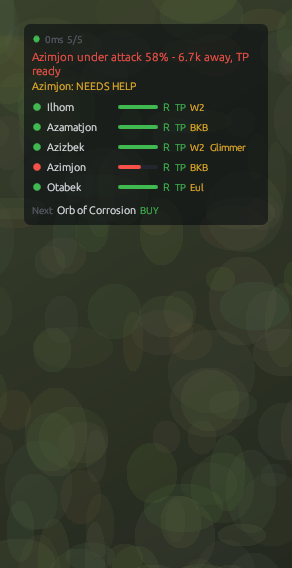
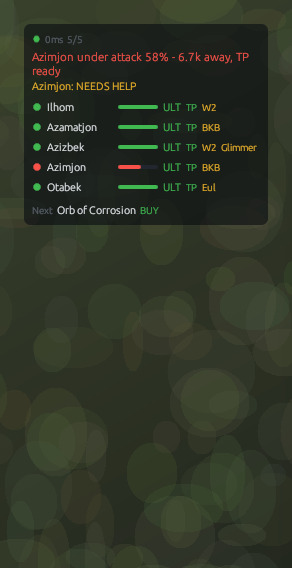
Label the ultimate ULT instead of R; space TP cooldowns
R was not obvious to everyone. The row now reads ULT (green ready) or
ULT 30 (seconds left); TP cooldowns read TP 12. Rows still fit the
244 px panel, including the widest one.

Changed region(s): [[0.5548, 0.1796, 0.8938, 0.3592]]

diff --git a/crates/agent/src/overlay.rs b/crates/agent/src/overlay.rs
@@ -471,14 +471,14 @@ fn row(ui: &mut egui::Ui, m: &Mate, now: Instant, is_me: bool) {
 
         if let Some(u) = st.ultimate().filter(|u| u.level > 0) {
             if u.cooldown == 0 {
-                ui.label(RichText::new("R").color(GREEN).strong().size(10.5));
+                ui.label(RichText::new("ULT").color(GREEN).strong().size(10.5));
             } else {
-                small(ui, &format!("R{}", u.cooldown), DIM);
+                small(ui, &format!("ULT {}", u.cooldown), DIM);
             }
         }
         match st.tp_cooldown() {
             Some(0) => small(ui, "TP", GREEN),
-            Some(cd) => small(ui, &format!("TP{cd}"), DIM),
+            Some(cd) => small(ui, &format!("TP {cd}"), DIM),
             None => small(ui, "TP", RED),
         }
         let (obs, _) = st.ward_count();

diff --git a/README.md b/README.md
@@ -9,11 +9,11 @@ A team coordination tool for a 5-stack. Each player shares **their own** game st
 - **A build helper for your hero**: next item and gold still needed, skill-order reminders, game-plan tips. It comes from the old CYBERSPYDE build database, plus builds your pro friend writes **once** instead of explaining them every game.
 - **A team board** web page (for a second monitor or a phone) where anyone can send tips to one player or the whole team.
 
-| Normal | A teammate getting ganked |
+| In a fight (your ult on cooldown) | A teammate getting ganked |
 |---|---|
 | ![Overlay](docs/screenshots/overlay.png) | ![Gank alert](docs/screenshots/overlay-gank-alert.png) |
 
-These are real screen captures of `cyberspyde-agent --demo` over a plain backdrop. Each row is one player: status dot (green ok, amber low, red under attack), HP bar, `R` = ultimate (green ready, grey with seconds), `TP`, `W2` = observer wards carried, and up to two fight-changing items. The radar and game-plan tips are off by default. The team board looks like this:
+These are real screen captures of `cyberspyde-agent --demo` over a plain backdrop. Each row is one player: status dot (green ok, amber low, red under attack), HP bar, `ULT` = ultimate (green ready, grey with seconds left, hidden before level 6), `TP` (green ready, grey cooldown, red none), `W2` = observer wards carried, and up to two fight-changing items. The radar and game-plan tips are off by default. The team board looks like this:
 
 ![Team board](docs/screenshots/team-board.jpg)
 
